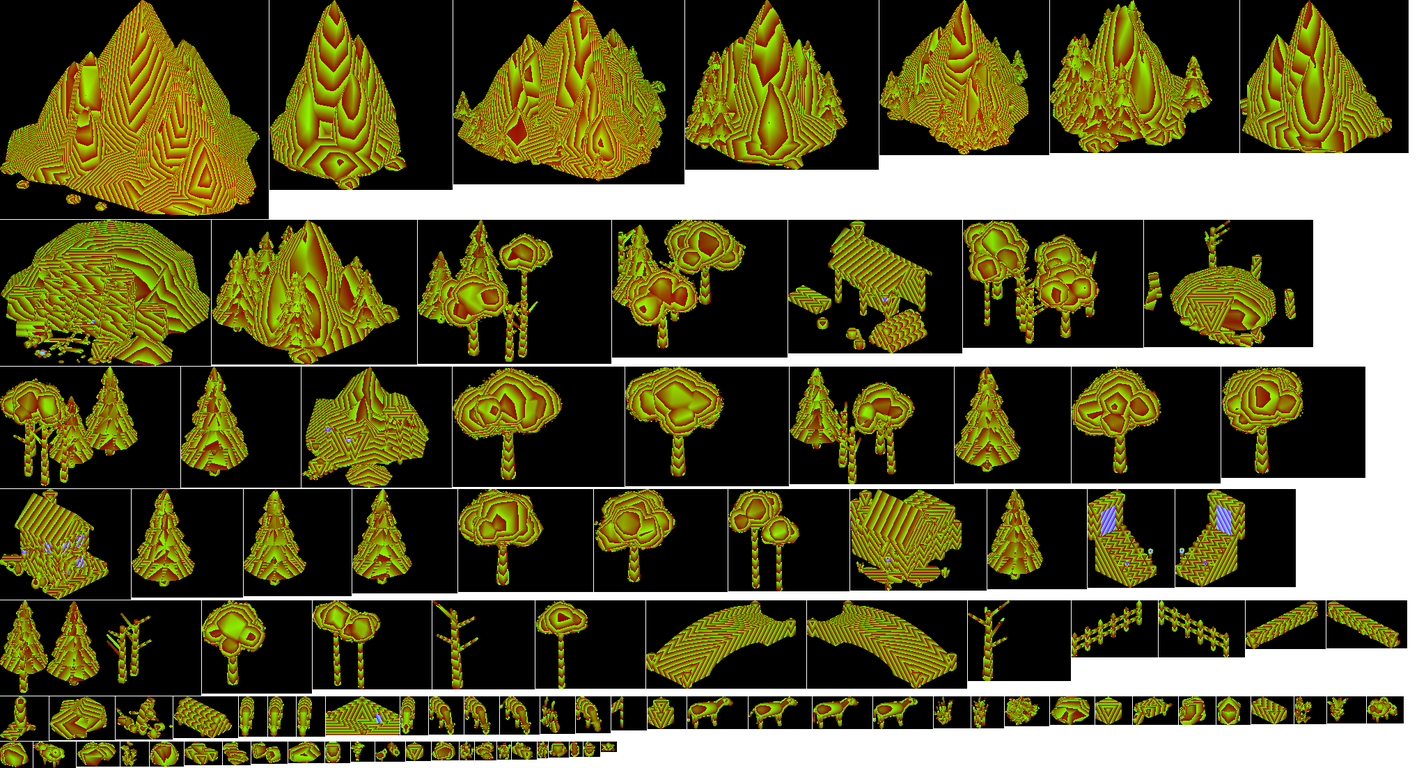
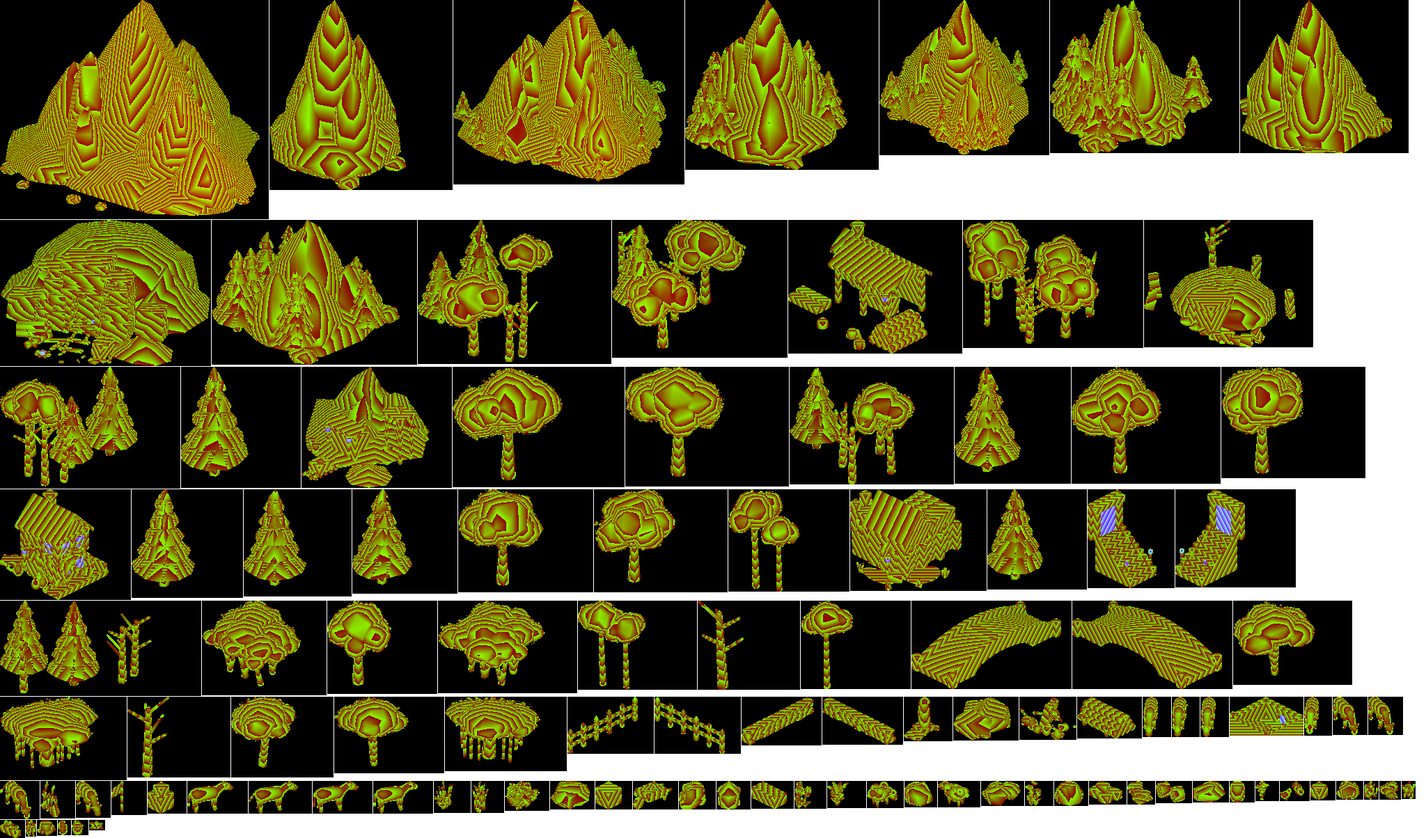
The Fens' own trees: alder carr and willows
Fens critic pass 2 left this open: the Fens overland and Saltmere drew
the Vale's birches and mixed groves, whose ochre crowns read round and
cheerful in a swamp. Three new tree bakes (buildkit.js, env.json; the
shared atlas re-packed with no existing footprint moved):
- alder (3): low and dark, two or three leaning stems, a crown wider
  than tall;
- willow (2): a crooked trunk, a broad grey-green crown, fronds hanging
  round it;
- carr (2): alders crowded on a hummock.
The Fens' scatter, its forest ring and Saltmere's draw from FENS_CLUSTER
and FENS_SINGLE (forestRing takes a land's lists; the same draws, the
Fens' kinds); the Vale is untouched. The tree-kind regexes (placement,
undergrowth at their feet, contact shade, the minimap) learn the new
kinds. Critic pass: the alder's dark root stool read as a ball and went;
the willow's fronds hang longer.

Every Fens way in and Saltmere's services stay reachable (flood fill);
316 tests, smoke, render smoke pass. Before/after in
docs/fens-critic-pass.md.

Claude-Session: https://claude.ai/code/session_015iJE9saRx1hCYJHRMUYeGn

diff --git a/src/sim/envfoot.js b/src/sim/envfoot.js
@@ -1,4 +1,4 @@
 // envfoot.js — GENERATED by tools/actor-lab/bake-env.cjs. Do not edit.
 // Ground footprint of each baked environment sprite, in tiles relative to its
 // origin: [x0, y0, x1, y1]. Used for collision and placement.
-export const ENV_FOOT = {"pine_1":[-4.13,-4.18,4.39,4.34],"pine_2":[-4.81,-4.8,5.12,5],"pine_3":[-4.98,-5.01,5,4.96],"pine_4":[-5.13,-5.38,5.48,5.19],"pine_5":[-4.8,-4.87,4.86,4.58],"pine_6":[-4.76,-4.68,4.81,4.84],"oak_1":[-6.75,-7.14,6.33,6.1],"oak_2":[-5.79,-6.35,5.76,6.08],"oak_3":[-6.48,-6.65,6.29,5.96],"oak_4":[-6.59,-6.8,6.43,6.89],"autumn_1":[-6.59,-6.88,6.22,6.33],"autumn_2":[-5.57,-5.73,5.51,5.75],"autumn_3":[-5.1,-5.47,5.08,5.06],"birch_1":[-4.93,-3.24,2.73,4.21],"birch_2":[-4.81,-4.29,4.6,3.62],"birch_3":[-5.17,-3.57,4.88,4.81],"dead_1":[-2.24,-2.81,2.66,2.62],"dead_2":[-2.56,-1.87,2.98,3.05],"grove_1":[-9.86,-8.38,6.88,6.28],"grove_2":[-10.59,-7.13,5.79,8.69],"grove_3":[-10.94,-8,11.15,9.36],"grove_4":[-10.79,-8.1,8.04,10.5],"grove_5":[-9.42,-11.89,11.01,10.13],"grove_6":[-7.78,-9.39,8.91,8.76],"bridge_0":[-3.6,-9.7,3.6,9.7],"bridge_90":[-9.7,-3.6,9.7,3.6],"rock_A":[-2.18,-2.03,2.19,2.41],"rock_B":[-2.03,-2.12,2.06,1.97],"rock_C":[-3.06,-3.35,3.32,3.55],"rock_D":[-2.7,-3.56,2.22,2.22],"rock_E":[-3.72,-3.84,4.19,6.22],"mountain_A_grass_trees":[-10.67,-10.54,11.17,11.99],"mountain_B_grass_trees":[-12.25,-12.31,11.91,11.79],"mountain_C_grass_trees":[-11.39,-10.97,11.31,12.47],"mountain_A":[-10,-10.64,10.64,10.58],"mountain_B":[-11.58,-11.7,12.29,12.11],"mountain_massif_A":[-37.07,-33.75,43.44,35.17],"mountain_massif_B":[-30.31,-33,30.17,32.15],"mountain_massif_C":[-24.46,-24.21,25.04,24.61],"ruin":[-9.37,-9.66,9.14,6.89],"mine_0":[-13.86,-13.76,9.84,11.1],"lumbermill_90":[-10.3,-7.1,9.4,8.9],"barrel":[-0.89,-0.94,0.89,0.94],"crate_A_big":[-1.12,-1.12,1.12,1.19],"crate_A_small":[-0.72,-0.72,0.72,0.79],"crate_B_big":[-1.12,-1.12,1.12,1.19],"crate_long_A":[-2.02,-1.02,2.02,1.09],"sack":[-0.62,-0.49,1.25,1.36],"wheelbarrow":[-1.32,-2.69,1.32,3.23],"weaponrack":[-1.2,-0.19,2.1,0.81],"bucket_water":[-0.65,-0.65,0.65,0.65],"resource_lumber":[-3.33,-1.78,3.33,2.15],"resource_stone":[-1.7,-1.97,1.75,0.83],"flag_red":[-0.16,-0.12,0.16,1.84],"stump":[-1.06,-1.15,1.12,1.1],"fence_0":[-0.25,-6.05,0.3,6.05],"fence_90":[-6.05,-0.3,6.05,0.25],"drywall_0":[-0.83,-5.8,0.8,5.78],"drywall_90":[-5.8,-0.8,5.78,0.83],"stairsup_0":[-2.6,-4.15,2.6,3.1],"stairsup_90":[-4.15,-2.6,3.1,2.6],"stairsdown_0":[-3.38,-3.8,3.38,3.01],"watermill_0":[-6.12,-4.3,5.3,5.38],"chapelruin_0":[-6.67,-5.7,7.63,8.85],"milestone_0":[-1.68,-1.61,1.66,3.1],"warren_0":[-19.82,-24.03,13.71,8.3],"wagon_0":[-4.9,-1.55,4.09,3.62],"ug_bush":[-2.03,-2.14,2.18,2.18],"ug_fern":[-3.54,-3.27,3.7,3.52],"ug_plant":[-1.95,-2.32,2.09,2.06],"ug_flowers_1":[-0.86,-1.12,1.22,1.11],"ug_flowers_2":[-1.3,-0.89,1.19,1.02],"ug_grass_1":[-1.48,-1.64,1.6,1.55],"ug_grass_2":[-0.81,-0.96,0.98,1.03],"ug_clover":[-1,-0.94,0.7,0.73],"ug_mushroom":[-1.62,-0.82,1.79,1.94],"rock_F":[-2.07,-1.38,1.8,2.21],"rock_G":[-2.06,-1.39,1.6,1.58],"rock_H":[-2.19,-1.07,1.91,3.1],"wheat_1":[-0.69,-0.8,0.76,0.68],"wheat_2":[-0.71,-0.84,0.73,0.93],"wheat_3":[-0.9,-0.69,0.81,0.84],"cow_1":[-2.23,-1.26,3.32,1.47],"cow_2":[-1.59,-3.37,2.14,2.06],"cow_3":[-1.78,-1.91,2.44,2.81],"sheep_1":[-2.67,-1.44,1.86,1.44],"sheep_2":[-1.46,-2.63,1.49,1.85],"hens_1":[-1.36,-1.34,1.27,2.35],"pumpkins_1":[-1.77,-1.16,1.14,1.73],"hay_1":[-2.02,-1,2.02,1.25],"hay_2":[-1.48,-1.41,1.48,1.5],"planter_1":[-1.3,-0.4,1.3,0.4],"vale_tavern_1":[-8.45,-6.72,7.25,6.3],"vale_inn_1":[-7.1,-4.4,10.48,5.1],"vale_shop_1":[-4.2,-4.2,5.72,5.07],"vale_temple_1":[-6.81,-6.95,4.5,7.84],"vale_well_1":[-2.1,-1.8,2.1,1.8],"vale_house_1":[-4.7,-4,4.7,4],"vale_house_2":[-4.7,-4,4.7,4],"vale_house_3":[-4.7,-4,4.7,4],"vale_housex_1":[-4,-4.7,4,4.7],"vale_housex_2":[-4,-4.7,4,4.7],"vale_farm_1":[-9.63,-5.7,9.77,7.63],"vale_farmx_1":[-5.7,-9.77,7.63,9.63],"vale_keep_1":[-6.37,-6.45,6.37,6.45],"vale_wall_1":[-11,-1.7,11,2.1],"vale_smith_1":[-4.3,-5.36,4.8,5.2],"vale_curtain_1":[-10.09,-2,10.15,2],"vale_curtainy_1":[-2,-10.15,2,10.09],"vale_tower_1":[-4.1,-4.1,4.1,4.1],"vale_gatehousey_1":[-3,-7.5,3,7.5],"fens_tavern_1":[-8.45,-6.72,7.25,6.3],"fens_inn_1":[-7.1,-4.4,10.48,5.1],"fens_shop_1":[-4.2,-4.2,5.72,5.07],"fens_temple_1":[-6.81,-6.95,4.5,7.84],"fens_well_1":[-2.1,-1.8,2.1,1.8],"fens_house_1":[-4.7,-4,4.7,4],"fens_house_2":[-4.7,-4,4.7,4],"fens_house_3":[-4.7,-4,4.7,4],"fens_housex_1":[-4,-4.7,4,4.7],"fens_housex_2":[-4,-4.7,4,4.7],"fens_farm_1":[-9.63,-5.7,9.77,7.63],"fens_farmx_1":[-5.7,-9.77,7.63,9.63],"fens_keep_1":[-6.37,-6.45,6.37,6.45],"fens_wall_1":[-11,-1.7,11,2.1],"fens_smith_1":[-4.3,-5.36,4.8,5.2],"fens_curtain_1":[-10,-1.6,10.3,1.6],"fens_curtainy_1":[-1.6,-10.3,1.6,10],"fens_tower_1":[-3.7,-3.8,3.7,3.8],"fens_gatehousey_1":[-3,-7,5.7,7],"fens_stilt_1":[-4.81,-3.8,5.15,3.99],"fens_stilt_2":[-4.66,-3.8,5,3.99],"fens_stilt_3":[-4.9,-3.8,5.24,3.99],"fens_stilttavern_1":[-5.45,-6.75,5.75,6.75],"fens_cistern_1":[-2.1,-1.56,2.1,1.56],"fens_punt_1":[-1,-3.29,1,3.69],"fens_eeltrap_1":[-0.45,-0.41,1.65,0.45],"fens_boathall_1":[-10.75,-9.86,9.83,7.48],"fens_lockhall_1":[-8.1,-6,12.96,5.11],"fens_vats_1":[-6.86,-6.13,7.31,5.8],"fens_abbey_1":[-8.09,-8.86,7.95,8.39],"fens_priory_1":[-10.4,-8.86,10.43,8.9],"fens_landing_1":[-0.45,-3.2,0.55,3.2],"reach_tavern_1":[-8.45,-6.72,7.25,6.3],"reach_inn_1":[-7.1,-4.4,10.48,5.1],"reach_shop_1":[-4.2,-4.2,5.72,5.07],"reach_temple_1":[-6.81,-6.95,4.5,7.84],"reach_well_1":[-2.1,-1.8,2.1,1.8],"reach_house_1":[-4.7,-4,4.7,4],"reach_house_2":[-4.7,-4,4.7,4],"reach_house_3":[-4.7,-4,4.7,4],"reach_housex_1":[-4,-4.7,4,4.7],"reach_housex_2":[-4,-4.7,4,4.7],"reach_farm_1":[-9.63,-5.7,9.77,7.63],"reach_farmx_1":[-5.7,-9.77,7.63,9.63],"reach_keep_1":[-6.37,-6.45,6.37,6.45],"reach_wall_1":[-11,-1.7,11,2.1],"reach_smith_1":[-4.3,-5.36,4.8,5.2],"reach_curtain_1":[-10,-1.6,10.3,1.6],"reach_curtainy_1":[-1.6,-10.3,1.6,10],"reach_tower_1":[-3.7,-3.8,3.7,3.8],"reach_gatehousey_1":[-3,-7,5.7,7],"heights_tavern_1":[-8.45,-6.72,7.25,6.3],"heights_inn_1":[-7.1,-4.4,10.48,5.1],"heights_shop_1":[-4.2,-4.2,5.72,5.07],"heights_temple_1":[-6.81,-6.95,4.5,7.84],"heights_well_1":[-2.1,-1.8,2.1,1.8],"heights_house_1":[-4.7,-4,4.7,4],"heights_house_2":[-4.7,-4,4.7,4],"heights_house_3":[-4.7,-4,4.7,4],"heights_housex_1":[-4,-4.7,4,4.7],"heights_housex_2":[-4,-4.7,4,4.7],"heights_farm_1":[-9.63,-5.7,9.77,7.63],"heights_farmx_1":[-5.7,-9.77,7.63,9.63],"heights_keep_1":[-6.37,-6.45,6.37,6.45],"heights_wall_1":[-11,-1.7,11,2.1],"heights_smith_1":[-4.3,-5.36,4.8,5.2],"heights_curtain_1":[-10,-1.6,10.3,1.6],"heights_curtainy_1":[-1.6,-10.3,1.6,10],"heights_tower_1":[-3.7,-3.8,3.7,3.8],"heights_gatehousey_1":[-3,-7,5.7,7]};
+export const ENV_FOOT = {"pine_1":[-4.13,-4.18,4.39,4.34],"pine_2":[-4.81,-4.8,5.12,5],"pine_3":[-4.98,-5.01,5,4.96],"pine_4":[-5.13,-5.38,5.48,5.19],"pine_5":[-4.8,-4.87,4.86,4.58],"pine_6":[-4.76,-4.68,4.81,4.84],"oak_1":[-6.75,-7.14,6.33,6.1],"oak_2":[-5.79,-6.35,5.76,6.08],"oak_3":[-6.48,-6.65,6.29,5.96],"oak_4":[-6.59,-6.8,6.43,6.89],"autumn_1":[-6.59,-6.88,6.22,6.33],"autumn_2":[-5.57,-5.73,5.51,5.75],"autumn_3":[-5.1,-5.47,5.08,5.06],"birch_1":[-4.93,-3.24,2.73,4.21],"birch_2":[-4.81,-4.29,4.6,3.62],"birch_3":[-5.17,-3.57,4.88,4.81],"dead_1":[-2.24,-2.81,2.66,2.62],"dead_2":[-2.56,-1.87,2.98,3.05],"grove_1":[-9.86,-8.38,6.88,6.28],"grove_2":[-10.59,-7.13,5.79,8.69],"grove_3":[-10.94,-8,11.15,9.36],"grove_4":[-10.79,-8.1,8.04,10.5],"grove_5":[-9.42,-11.89,11.01,10.13],"grove_6":[-7.78,-9.39,8.91,8.76],"bridge_0":[-3.6,-9.7,3.6,9.7],"bridge_90":[-9.7,-3.6,9.7,3.6],"rock_A":[-2.18,-2.03,2.19,2.41],"rock_B":[-2.03,-2.12,2.06,1.97],"rock_C":[-3.06,-3.35,3.32,3.55],"rock_D":[-2.7,-3.56,2.22,2.22],"rock_E":[-3.72,-3.84,4.19,6.22],"mountain_A_grass_trees":[-10.67,-10.54,11.17,11.99],"mountain_B_grass_trees":[-12.25,-12.31,11.91,11.79],"mountain_C_grass_trees":[-11.39,-10.97,11.31,12.47],"mountain_A":[-10,-10.64,10.64,10.58],"mountain_B":[-11.58,-11.7,12.29,12.11],"mountain_massif_A":[-37.07,-33.75,43.44,35.17],"mountain_massif_B":[-30.31,-33,30.17,32.15],"mountain_massif_C":[-24.46,-24.21,25.04,24.61],"ruin":[-9.37,-9.66,9.14,6.89],"mine_0":[-13.86,-13.76,9.84,11.1],"lumbermill_90":[-10.3,-7.1,9.4,8.9],"barrel":[-0.89,-0.94,0.89,0.94],"crate_A_big":[-1.12,-1.12,1.12,1.19],"crate_A_small":[-0.72,-0.72,0.72,0.79],"crate_B_big":[-1.12,-1.12,1.12,1.19],"crate_long_A":[-2.02,-1.02,2.02,1.09],"sack":[-0.62,-0.49,1.25,1.36],"wheelbarrow":[-1.32,-2.69,1.32,3.23],"weaponrack":[-1.2,-0.19,2.1,0.81],"bucket_water":[-0.65,-0.65,0.65,0.65],"resource_lumber":[-3.33,-1.78,3.33,2.15],"resource_stone":[-1.7,-1.97,1.75,0.83],"flag_red":[-0.16,-0.12,0.16,1.84],"stump":[-1.06,-1.15,1.12,1.1],"fence_0":[-0.25,-6.05,0.3,6.05],"fence_90":[-6.05,-0.3,6.05,0.25],"drywall_0":[-0.83,-5.8,0.8,5.78],"drywall_90":[-5.8,-0.8,5.78,0.83],"stairsup_0":[-2.6,-4.15,2.6,3.1],"stairsup_90":[-4.15,-2.6,3.1,2.6],"stairsdown_0":[-3.38,-3.8,3.38,3.01],"watermill_0":[-6.12,-4.3,5.3,5.38],"chapelruin_0":[-6.67,-5.7,7.63,8.85],"milestone_0":[-1.68,-1.61,1.66,3.1],"warren_0":[-19.82,-24.03,13.71,8.3],"wagon_0":[-4.9,-1.55,4.09,3.62],"ug_bush":[-2.03,-2.14,2.18,2.18],"ug_fern":[-3.54,-3.27,3.7,3.52],"ug_plant":[-1.95,-2.32,2.09,2.06],"ug_flowers_1":[-0.86,-1.12,1.22,1.11],"ug_flowers_2":[-1.3,-0.89,1.19,1.02],"ug_grass_1":[-1.48,-1.64,1.6,1.55],"ug_grass_2":[-0.81,-0.96,0.98,1.03],"ug_clover":[-1,-0.94,0.7,0.73],"ug_mushroom":[-1.62,-0.82,1.79,1.94],"rock_F":[-2.07,-1.38,1.8,2.21],"rock_G":[-2.06,-1.39,1.6,1.58],"rock_H":[-2.19,-1.07,1.91,3.1],"wheat_1":[-0.69,-0.8,0.76,0.68],"wheat_2":[-0.71,-0.84,0.73,0.93],"wheat_3":[-0.9,-0.69,0.81,0.84],"cow_1":[-2.23,-1.26,3.32,1.47],"cow_2":[-1.59,-3.37,2.14,2.06],"cow_3":[-1.78,-1.91,2.44,2.81],"sheep_1":[-2.67,-1.44,1.86,1.44],"sheep_2":[-1.46,-2.63,1.49,1.85],"hens_1":[-1.36,-1.34,1.27,2.35],"pumpkins_1":[-1.77,-1.16,1.14,1.73],"hay_1":[-2.02,-1,2.02,1.25],"hay_2":[-1.48,-1.41,1.48,1.5],"planter_1":[-1.3,-0.4,1.3,0.4],"alder_1":[-4.75,-5.67,5.55,5.23],"alder_2":[-5.24,-5.4,5.37,5.39],"alder_3":[-5.48,-4.83,5.77,4.74],"willow_1":[-7.04,-6.27,6.42,6.51],"willow_2":[-7.57,-7.83,6.93,7.54],"carr_1":[-7.28,-6.88,6.22,6.2],"carr_2":[-6.81,-6.88,6.65,6.31],"vale_tavern_1":[-8.45,-6.72,7.25,6.3],"vale_inn_1":[-7.1,-4.4,10.48,5.1],"vale_shop_1":[-4.2,-4.2,5.72,5.07],"vale_temple_1":[-6.81,-6.95,4.5,7.84],"vale_well_1":[-2.1,-1.8,2.1,1.8],"vale_house_1":[-4.7,-4,4.7,4],"vale_house_2":[-4.7,-4,4.7,4],"vale_house_3":[-4.7,-4,4.7,4],"vale_housex_1":[-4,-4.7,4,4.7],"vale_housex_2":[-4,-4.7,4,4.7],"vale_farm_1":[-9.63,-5.7,9.77,7.63],"vale_farmx_1":[-5.7,-9.77,7.63,9.63],"vale_keep_1":[-6.37,-6.45,6.37,6.45],"vale_wall_1":[-11,-1.7,11,2.1],"vale_smith_1":[-4.3,-5.36,4.8,5.2],"vale_curtain_1":[-10.09,-2,10.15,2],"vale_curtainy_1":[-2,-10.15,2,10.09],"vale_tower_1":[-4.1,-4.1,4.1,4.1],"vale_gatehousey_1":[-3,-7.5,3,7.5],"fens_tavern_1":[-8.45,-6.72,7.25,6.3],"fens_inn_1":[-7.1,-4.4,10.48,5.1],"fens_shop_1":[-4.2,-4.2,5.72,5.07],"fens_temple_1":[-6.81,-6.95,4.5,7.84],"fens_well_1":[-2.1,-1.8,2.1,1.8],"fens_house_1":[-4.7,-4,4.7,4],"fens_house_2":[-4.7,-4,4.7,4],"fens_house_3":[-4.7,-4,4.7,4],"fens_housex_1":[-4,-4.7,4,4.7],"fens_housex_2":[-4,-4.7,4,4.7],"fens_farm_1":[-9.63,-5.7,9.77,7.63],"fens_farmx_1":[-5.7,-9.77,7.63,9.63],"fens_keep_1":[-6.37,-6.45,6.37,6.45],"fens_wall_1":[-11,-1.7,11,2.1],"fens_smith_1":[-4.3,-5.36,4.8,5.2],"fens_curtain_1":[-10,-1.6,10.3,1.6],"fens_curtainy_1":[-1.6,-10.3,1.6,10],"fens_tower_1":[-3.7,-3.8,3.7,3.8],"fens_gatehousey_1":[-3,-7,5.7,7],"fens_stilt_1":[-4.81,-3.8,5.15,3.99],"fens_stilt_2":[-4.66,-3.8,5,3.99],"fens_stilt_3":[-4.9,-3.8,5.24,3.99],"fens_stilttavern_1":[-5.45,-6.75,5.75,6.75],"fens_cistern_1":[-2.1,-1.56,2.1,1.56],"fens_punt_1":[-1,-3.29,1,3.69],"fens_eeltrap_1":[-0.45,-0.41,1.65,0.45],"fens_boathall_1":[-10.75,-9.86,9.83,7.48],"fens_lockhall_1":[-8.1,-6,12.96,5.11],"fens_vats_1":[-6.86,-6.13,7.31,5.8],"fens_abbey_1":[-8.09,-8.86,7.95,8.39],"fens_priory_1":[-10.4,-8.86,10.43,8.9],"fens_landing_1":[-0.45,-3.2,0.55,3.2],"reach_tavern_1":[-8.45,-6.72,7.25,6.3],"reach_inn_1":[-7.1,-4.4,10.48,5.1],"reach_shop_1":[-4.2,-4.2,5.72,5.07],"reach_temple_1":[-6.81,-6.95,4.5,7.84],"reach_well_1":[-2.1,-1.8,2.1,1.8],"reach_house_1":[-4.7,-4,4.7,4],"reach_house_2":[-4.7,-4,4.7,4],"reach_house_3":[-4.7,-4,4.7,4],"reach_housex_1":[-4,-4.7,4,4.7],"reach_housex_2":[-4,-4.7,4,4.7],"reach_farm_1":[-9.63,-5.7,9.77,7.63],"reach_farmx_1":[-5.7,-9.77,7.63,9.63],"reach_keep_1":[-6.37,-6.45,6.37,6.45],"reach_wall_1":[-11,-1.7,11,2.1],"reach_smith_1":[-4.3,-5.36,4.8,5.2],"reach_curtain_1":[-10,-1.6,10.3,1.6],"reach_curtainy_1":[-1.6,-10.3,1.6,10],"reach_tower_1":[-3.7,-3.8,3.7,3.8],"reach_gatehousey_1":[-3,-7,5.7,7],"heights_tavern_1":[-8.45,-6.72,7.25,6.3],"heights_inn_1":[-7.1,-4.4,10.48,5.1],"heights_shop_1":[-4.2,-4.2,5.72,5.07],"heights_temple_1":[-6.81,-6.95,4.5,7.84],"heights_well_1":[-2.1,-1.8,2.1,1.8],"heights_house_1":[-4.7,-4,4.7,4],"heights_house_2":[-4.7,-4,4.7,4],"heights_house_3":[-4.7,-4,4.7,4],"heights_housex_1":[-4,-4.7,4,4.7],"heights_housex_2":[-4,-4.7,4,4.7],"heights_farm_1":[-9.63,-5.7,9.77,7.63],"heights_farmx_1":[-5.7,-9.77,7.63,9.63],"heights_keep_1":[-6.37,-6.45,6.37,6.45],"heights_wall_1":[-11,-1.7,11,2.1],"heights_smith_1":[-4.3,-5.36,4.8,5.2],"heights_curtain_1":[-10,-1.6,10.3,1.6],"heights_curtainy_1":[-1.6,-10.3,1.6,10],"heights_tower_1":[-3.7,-3.8,3.7,3.8],"heights_gatehousey_1":[-3,-7,5.7,7]};

diff --git a/src/sim/outdoor.js b/src/sim/outdoor.js
@@ -199,6 +199,8 @@ function putProp(o, kind, x, y) { o.props.set(Math.floor(x) + ',' + Math.floor(y
 
 const TREE_SINGLE = ['pine_1', 'pine_2', 'pine_3', 'pine_4', 'pine_5', 'pine_6', 'oak_1', 'oak_2', 'oak_3', 'oak_4', 'autumn_1', 'autumn_2', 'autumn_3', 'birch_1', 'birch_2', 'birch_3', 'dead_1', 'dead_2'];   // (birches: critic pass 11d)
 const TREE_CLUSTER = ['grove_1', 'grove_2', 'grove_3', 'grove_4', 'grove_5', 'grove_6'];
+// the Fens' (M8, fens critic pass 2): alder carr and willows, low and dark, and the drowned dead
+const FENS_CLUSTER = ['carr_1', 'carr_2'], FENS_SINGLE = ['alder_1', 'alder_2', 'alder_3', 'willow_1', 'willow_2', 'dead_1', 'dead_2'];
 const ROCKS = ['rock_F', 'rock_G', 'rock_H'];        // the nature pack's (docs/nature-pack-proposal.md); rock_A..E stay at the barrows
 // The undergrowth (Quaternius' Stylized Nature MegaKit, CC0): LOW is walked through (flowers, grass, ferns, clover,
 // a plant), SOLID isn't (a flowering bush, the rocks); FOOT grows at a tree's foot (and the shelf fungus only there).
@@ -213,7 +215,7 @@ function scatter(o, rng, x0, y0, x1, y1, step, fn) {
   for (let y = y0; y < y1; y += step) for (let x = x0; x < x1; x += step) {
     const jx = x + (rng() - 0.5) * step * 0.9, jy = y + (rng() - 0.5) * step * 0.9, id = fn(jx, jy);
     if (!id) continue;
-    const mount = /mountain/.test(id), round = mount || /pine|oak|autumn|dead|grove/.test(id);
+    const mount = /mountain/.test(id), round = mount || /pine|oak|autumn|dead|grove|alder|willow|carr/.test(id);
     if (fits(o, id, jx, jy, mount ? -1 : round ? 0.6 : 0.5)) put(o, id, jx, jy, round ? 'round' : 'rect', round ? 0.35 : 0.1);
   }
 }
@@ -229,7 +231,7 @@ function undergrowth(o, x0, y0, x1, y1, step, density) {
     if (fits(o, id, jx, jy, solid ? 0.4 : 0.1)) put(o, id, jx, jy, solid ? 'round' : 'none', 0.35);
   }
   for (const t of o.structs.slice()) {
-    if (!/pine|oak|autumn|grove/.test(t.id) || rng() < 0.35) continue;
+    if (!/pine|oak|autumn|grove|alder|willow|carr/.test(t.id) || rng() < 0.35) continue;
     const f = ENV_FOOT[t.id], rad = f ? Math.max(f[2] - f[0], f[3] - f[1]) / 2 : 4;
     for (let k = 0, n = 1 + Math.floor(rng() * 3); k < n; k++) {
       const a = (rng() - 0.5) * 2.2 + Math.PI / 4, dist = rad * (0.7 + rng() * 0.5), x = t.x + cos(a) * dist, y = t.y + sin(a) * dist, id = pick(rng, FOOT);
@@ -296,12 +298,12 @@ function inFrontOf(sites, x, y, depth = 30, half = 18) {
 }
 
 // forest ring around the playable area (hides the world's edge, bounds the camera)
-function forestRing(o, rng, inset) {
+function forestRing(o, rng, inset, cluster = TREE_CLUSTER, single = TREE_SINGLE) {
   const lo = -o.PAD + 4, hiX = o.W + o.PAD - 4, hiY = o.H + o.PAD - 4;
   scatter(o, rng, lo, lo, hiX, hiY, 11, (x, y) => {
     const out = Math.max(-x - inset, x - (o.W + inset), -y - inset, y - (o.H + inset));
     if (out < 0) return null;
-    return out > 8 || rng() < 0.75 ? pick(rng, TREE_CLUSTER) : pick(rng, TREE_SINGLE);
+    return out > 8 || rng() < 0.75 ? pick(rng, cluster) : pick(rng, single);
   });
   // hard edge: nothing walks past the ring
   for (let Y = 0; Y < o.GH; Y++) for (let X = 0; X < o.GW; X++) {
@@ -461,14 +463,15 @@ function buildFens(seed) {
     { x: mound[0], y: mound[1], id: B('boathall'), text: "Toadking's Mound", site: 'toadking_mound' }, { x: lockhall[0], y: lockhall[1], id: B('lockhall'), text: 'The Canal Locks', site: 'canal_locks' },
     { x: pools[0], y: pools[1], id: B('vats'), text: 'The Sickpools', site: 'sickpools' }, { x: abbey[0], y: abbey[1], id: B('abbey'), text: 'The Drowned Abbey', site: 'drowned_abbey' },
     { x: reedholm[0], y: reedholm[1], id: B('priory'), text: 'Reedholm' });
-  // the fen's trees: stunted birch and alder in carrs, dead trees standing in the water's edge; never on a road
+  // the fen's trees: alder carr and willows, low and dark, dead trees standing in the water's edge; never on a road
+  // (fens critic pass 2: the Vale's birches and mixed groves read round and cheerful here; the same draws, the Fens' kinds)
   scatter(o, rng, -60, -60, 300, 300, 7, (x, y) => {
     if (keepOut.some(([kx, ky]) => hypot(x - kx, y - ky) < 18) || inFrontOf(keepOut, x, y, 26, 14)) return null;
     const n = fbm(x * 0.03, y * 0.03, o.seed + 41), out = Math.max(-x, x - 240, -y, y - 240);
-    if (out > 0) return rng() < 0.8 ? pick(rng, ['grove_2', 'grove_4', 'dead_1', 'birch_2']) : null;
-    return n > 0.58 ? pick(rng, ['birch_1', 'birch_2', 'birch_3', 'grove_2', 'dead_1']) : rng() < 0.05 ? pick(rng, ['dead_1', 'dead_2']) : null;
+    if (out > 0) return rng() < 0.8 ? pick(rng, ['carr_1', 'carr_2', 'dead_1', 'willow_1']) : null;
+    return n > 0.58 ? pick(rng, ['alder_1', 'alder_2', 'alder_3', 'carr_1', 'willow_2']) : rng() < 0.05 ? pick(rng, ['dead_1', 'dead_2']) : null;
   });
-  forestRing(o, rng, 6);
+  forestRing(o, rng, 6, FENS_CLUSTER, FENS_SINGLE);
   const ways = [mound, lockhall, pools, abbey, reedholm].map((p) => door(p, 8));
   undergrowth(o, -10, -10, 250, 250, 4, (x, y) => {
     if (keepOut.some(([kx, ky]) => hypot(x - kx, y - ky) < 12) || ways.some(([kx, ky]) => hypot(x - kx, y - ky) < 8)) return -1;
@@ -514,9 +517,9 @@ function buildWaystation(seed, region) {
   for (const [id, x, y] of [['barrel', 84, 60], ['barrel', 85, 62], ['crate_A_big', 57, 75], ['sack', 58, 77]]) put(o, id, x, y, 'rect', 0);
   scatter(o, rng, -40, -40, 170, 156, 8, (x, y) => {
     if (hypot(x - 60, y - 60) < 44) return null;
-    return rng() < 0.4 ? pick(rng, ['dead_1', 'dead_2', 'birch_2', 'grove_2']) : null;
+    return rng() < 0.4 ? pick(rng, ['dead_1', 'dead_2', 'willow_1', 'carr_2']) : null;   // (the Fens' kinds: fens critic pass 2)
   });
-  forestRing(o, rng, 10);
+  forestRing(o, rng, 10, FENS_CLUSTER, FENS_SINGLE);
   // reed beds and sedge on the peat between the houses and round the meres' edges; never the square
   undergrowth(o, -10, -10, 140, 126, 3, (x, y) => {
     if (hypot(x - o.hub.x, y - o.hub.y) < o.hub.r + 4) return -1;

diff --git a/tools/actor-lab/buildkit.js b/tools/actor-lab/buildkit.js
@@ -567,7 +567,8 @@ const TYPES = {
 const flat = (color) => new THREE.MeshStandardMaterial({ color: new THREE.Color(color), flatShading: true });
 const jitter = (geo, r, amt) => { const p = geo.attributes.position; for (let i = 0; i < p.count; i++) p.setXYZ(i, p.getX(i) + (r() - 0.5) * amt, p.getY(i) + (r() - 0.5) * amt * 0.6, p.getZ(i) + (r() - 0.5) * amt); geo.computeVertexNormals(); return geo; };
 // leaf: olive-grey, autumn: dull amber, birch: a muted gold (the game's dusk palette; pass 11d's warmer one reverted)
-const TREE_COL = { pine: ['#1f2b22', '#243226', '#2a392b'], leaf: ['#3a4527', '#42502c', '#4b5530'], autumn: ['#6a4f25', '#76582a', '#5e3f21'], birch: ['#7a6428', '#86702c', '#6e5824'], bark: '#3a2c22', dead: '#4a4038' };
+const TREE_COL = { pine: ['#1f2b22', '#243226', '#2a392b'], leaf: ['#3a4527', '#42502c', '#4b5530'], autumn: ['#6a4f25', '#76582a', '#5e3f21'], birch: ['#7a6428', '#86702c', '#6e5824'], bark: '#3a2c22', dead: '#4a4038',
+  alder: ['#2c3626', '#33402b', '#28301f'], willow: ['#4a5236', '#535c3c', '#41482f'], wetbark: '#2e2a24' };   // (M8) the Fens': dark carr green, willow grey-green
 // Foliage (critic pass 2: faceted gem-like crowns clashed with the buildings): closed,
 // softly-shaded masses. Geometry is vertex-merged BEFORE jittering so faces never crack
 // apart, shaded smooth, and vertex-coloured from a dark self-shadowed underside to a lighter
@@ -646,6 +647,30 @@ function birch(g, r, x, z, sc = 1, autumn = true) {
   for (let i = 0; i < 5; i++) { const k = new THREE.Mesh(new THREE.BoxGeometry(0.034, 0.012, 0.034), mark); k.position.set(0, 0.1 + i * 0.12 + r() * 0.04, 0); k.rotation.y = r() * 3; t.add(k); }
   leafCrown(t, r, autumn ? TREE_COL.birch : TREE_COL.leaf, 0.74, 0.19, 4, 22);
 }
+// The Fens' trees (M8; fens critic pass 2: the Vale's birches read round and cheerful in a swamp). An alder: low and
+// dark, two or three stems leaning out of one wet stool, a crown wider than tall. A willow: a short thick trunk,
+// crooked, a broad crown with fronds hanging round it to the water. A carr: alders crowded on a hummock.
+function alder(g, r, x, z, sc = 1) {
+  const t = new THREE.Group(); t.position.set(x, 0, z); t.scale.setScalar(sc); g.add(t);
+  const bark = flat(TREE_COL.wetbark), stems = 2 + ((r() * 2) | 0);
+  for (let i = 0; i < stems; i++) { const a = r() * 6.28, lean = 0.12 + r() * 0.16, st = new THREE.Mesh(new THREE.CylinderGeometry(0.016, 0.03, 0.42, 6), bark);
+    st.position.set(Math.cos(a) * 0.04, 0.2, Math.sin(a) * 0.04); st.rotation.set(Math.sin(a) * lean, 0, -Math.cos(a) * lean); t.add(st); }
+  const crown = new THREE.Group(); crown.scale.set(1.15, 0.8, 1.15); t.add(crown);
+  leafCrown(crown, r, TREE_COL.alder, 0.6, 0.24, 6 + ((r() * 3) | 0), 20);
+}
+function willow(g, r, x, z, sc = 1) {
+  const t = new THREE.Group(); t.position.set(x, 0, z); t.scale.setScalar(sc); g.add(t);
+  const bark = flat(TREE_COL.wetbark), trunk = new THREE.Mesh(new THREE.CylinderGeometry(0.04, 0.07, 0.34, 7), bark);
+  trunk.position.y = 0.17; trunk.rotation.z = (r() - 0.5) * 0.3; t.add(trunk);
+  const crown = new THREE.Group(); crown.scale.set(1.3, 0.62, 1.3); t.add(crown);
+  leafCrown(crown, r, TREE_COL.willow, 0.6, 0.26, 7, 18);
+  const frond = flat(TREE_COL.willow[2]), frond2 = flat(TREE_COL.willow[0]);
+  for (let i = 0; i < 22; i++) {                              // the hanging fronds, all round, longest at the front
+    const a = (i / 22) * Math.PI * 2 + r() * 0.2, R = 0.26 + r() * 0.06, len = 0.22 + r() * 0.14;
+    const f = new THREE.Mesh(new THREE.BoxGeometry(0.018, len, 0.01), i % 2 ? frond : frond2);
+    f.position.set(Math.cos(a) * R, 0.42 - len / 2, Math.sin(a) * R); f.rotation.y = -a; f.rotation.z = (r() - 0.5) * 0.15; t.add(f);
+  }
+}
 function deadTree(g, r, x, z, sc = 1) {
   const t = new THREE.Group(); t.position.set(x, 0, z); t.scale.setScalar(sc); g.add(t);
   const m = flat(TREE_COL.dead), trunk = new THREE.Mesh(new THREE.CylinderGeometry(0.025, 0.05, 0.8, 5), m); trunk.position.y = 0.4; trunk.rotation.z = (r() - 0.5) * 0.15; t.add(trunk);
@@ -658,6 +683,9 @@ const TREES = {
   autumn: (g, r) => broadleaf(g, r, 0, 0, 1.1 + r() * 0.3, true),
   dead: (g, r) => deadTree(g, r, 0, 0, 1.2 + r() * 0.2),
   birch: (g, r) => { birch(g, r, -0.12, 0.05, 1.2 + r() * 0.2); if (r() < 0.7) birch(g, r, 0.16, -0.1, 0.95 + r() * 0.2); },   // a pair, as they grow
+  alder: (g, r) => alder(g, r, 0, 0, 1.1 + r() * 0.25),
+  willow: (g, r) => willow(g, r, 0, 0, 1.15 + r() * 0.25),
+  carr: (g, r) => { for (const [x, z, k] of [[-0.18, -0.16, 1.05], [0.14, -0.2, 0.95], [-0.04, 0.12, 1.1], [0.24, 0.12, 0.85], [-0.28, 0.14, 0.9]]) alder(g, r, x, z, k + r() * 0.15); },   // alders crowded on a hummock
   // a clump of 5–8 mixed trees. Critic pass 10: trees set inside each other's crowns baked a pine's dark tiers
   // through an oak's crown, so each keeps its crown's room (a pine 0.29 × scale, a broadleaf 0.42 × scale), and
   // the pines stand toward the back (−x −z: away from the camera), the broadleaves in front

diff --git a/src/render/renderer.js b/src/render/renderer.js
@@ -1225,7 +1225,7 @@ export function createRenderer(canvas, sim, input) {
       for (const st of w.structs) {
         const f = envMeta && envMeta.sprites[st.id]; if (!f) continue;
         if (st.id.startsWith('ug_')) continue;                   // (the undergrowth isn't mapped: a tuft isn't a landmark)
-        const tree = /pine|oak|autumn|dead|grove|mountain|rock/.test(st.id), sx = (st.x - x0) * N / span, sy = (st.y - y0) * N / span;
+        const tree = /pine|oak|autumn|dead|grove|alder|willow|carr|mountain|rock/.test(st.id), sx = (st.x - x0) * N / span, sy = (st.y - y0) * N / span;
         x.fillStyle = /mountain/.test(st.id) ? 'rgba(120,118,128,0.9)' : tree ? 'rgba(24,44,28,0.9)' : 'rgba(170,86,70,0.95)';
         const r = tree ? (/grove|mountain/.test(st.id) ? 3 : 1.3) : 2.2; x.fillRect(sx - r, sy - r, r * 2, r * 2);
       }

diff --git a/src/render/outdoorpaint.js b/src/render/outdoorpaint.js
@@ -180,7 +180,7 @@ function aoField(o) {
   const S = 2, X0 = -o.PAD, Y0 = -o.PAD, W = o.GW * S, Hh = o.GH * S, g = new Float32Array(W * Hh);
   for (const st of o.structs) {
     const ft = ENV_FOOT[st.id]; if (!ft) continue;
-    const tree = /pine|oak|autumn|grove|dead/.test(st.id), small = /^ug_|^rock|stump|flag|wheelbarrow|resource/.test(st.id);
+    const tree = /pine|oak|autumn|grove|dead|alder|willow|carr/.test(st.id), small = /^ug_|^rock|stump|flag|wheelbarrow|resource/.test(st.id);
     if (st.id.startsWith('bridge') || /mountain/.test(st.id)) continue;
     const k = tree ? 0.42 : small ? 0.25 : 0.55, x0 = st.x + ft[0], y0 = st.y + ft[1], x1 = st.x + ft[2], y1 = st.y + ft[3];
     const cx = (x0 + x1) / 2, cy = (y0 + y1) / 2, rx = (x1 - x0) / 2 * (tree ? 0.75 : 1), ry = (y1 - y0) / 2 * (tree ? 0.75 : 1);

diff --git a/docs/fens-critic-pass.md b/docs/fens-critic-pass.md
@@ -118,8 +118,14 @@ Every way in is reachable from the Fens' arrival in three seeds, and every arriv
 
 ### Still open
 
-- The Fens' trees are the Vale's birches, whose ochre crowns read round and cheerful here. Alder and willow, darker
-  and lower, are for the slice-4 art pass.
+- ~~The Fens' trees are the Vale's birches~~ Done (2026-10-04): the Fens' own trees, baked in code
+  (`buildkit.js`: `alder`, low and dark on two or three leaning stems; `willow`, a crooked trunk under a broad crown with
+  fronds hanging round it; `carr`, alders crowded on a hummock), in the shared atlas with no existing footprint moved.
+  The Fens overland, its forest ring and Saltmere's draw from them (`FENS_CLUSTER`, `FENS_SINGLE`) where they drew
+  the Vale's birches and mixed groves, the same draws, the Fens' kinds; dead trees stay. The baked alder's dark root
+  stool read as a ball at its foot and went.
+
+  ![The Fens and Saltmere, the Vale's trees before and the Fens' own after](img/fens/trees-before-after.jpg)
 - The Toadking's hall reads as a heap of boats from its arrival, but its crown on the boat-hook is three pixels
   wide. The boss pass (slice 6) can give it a flag.
 
